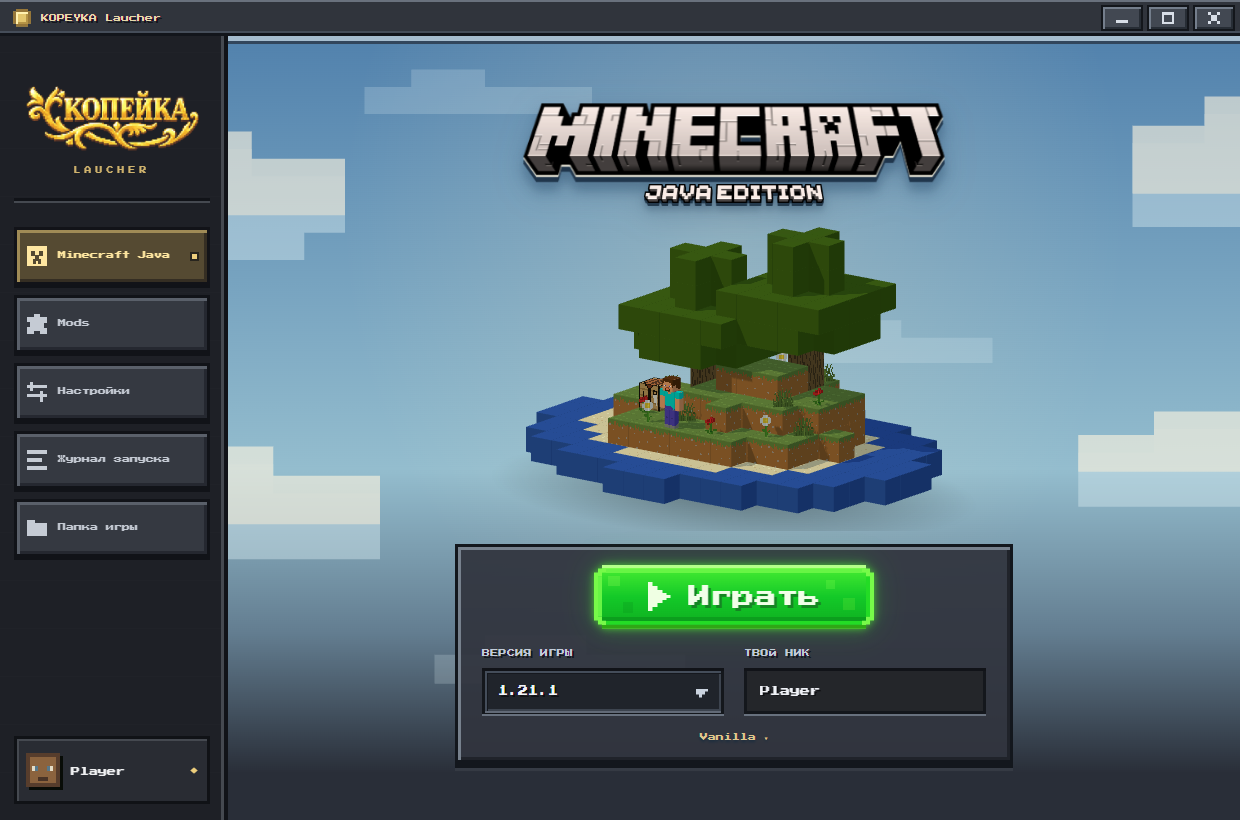
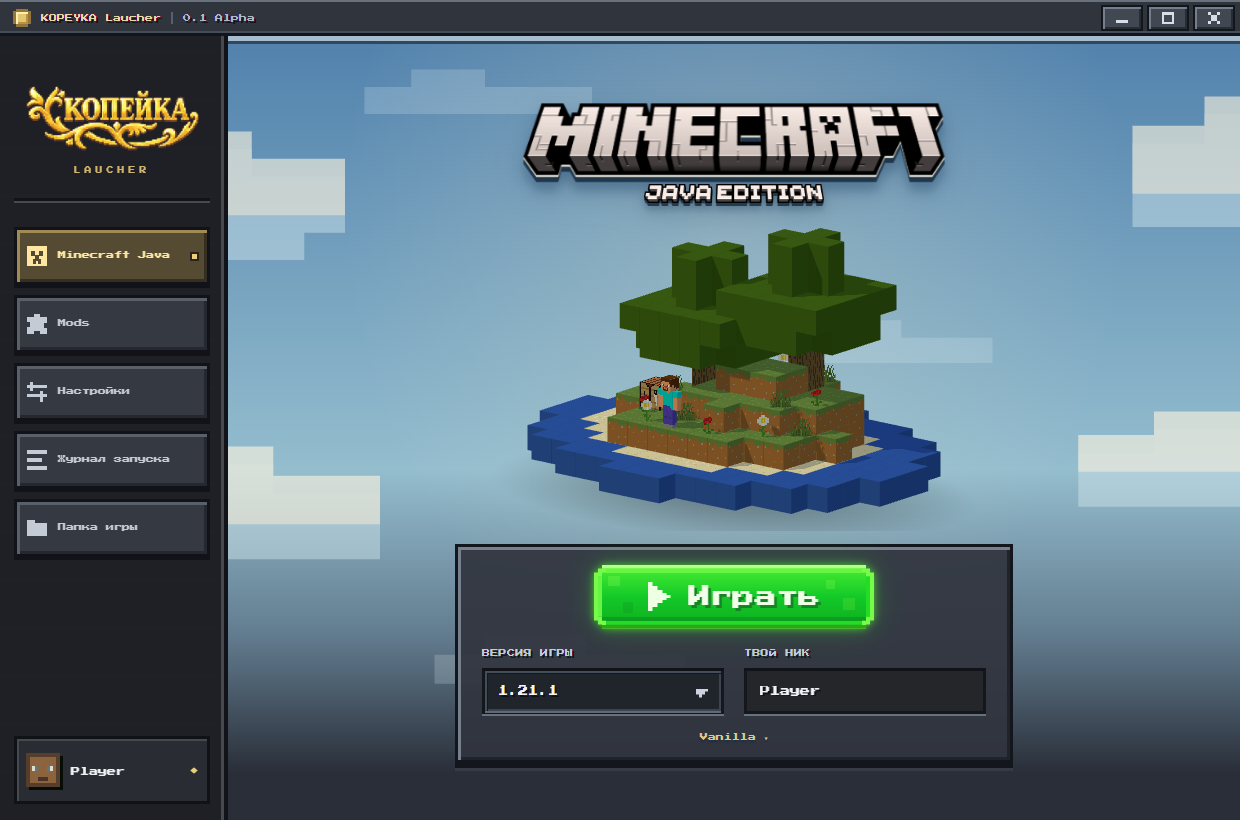
Label first public build as 0.1 Alpha

diff --git a/src/ui/titlebar.css b/src/ui/titlebar.css
@@ -2,6 +2,7 @@
 body { display: block; }
 .titlebar { position: sticky; top: 0; z-index: 100; height: var(--titlebar-height); padding: 0 5px 0 13px; background: #30343c; border-top: 2px solid #69717d; border-bottom: 3px solid #12151b; box-shadow: inset 0 -2px #454d59; user-select: none; -webkit-app-region: drag; }
 .window-title { display: flex; align-items: center; gap: 10px; color: #e7d9ac; font: 8px/1.5 PlayPixel, monospace; text-shadow: 2px 2px #14171d; pointer-events: none; }
+.title-version { color: #b0bac9; border-left: 2px solid #56606e; padding-left: 10px; }
 .title-coin { display: block; width: 18px; height: 18px; background: #e4c76e; border: 3px solid #967638; box-shadow: inset 2px 2px #fff1b0, inset -2px -2px #b59446, 2px 2px #15171c; clip-path: polygon(3px 0,15px 0,15px 3px,18px 3px,18px 15px,15px 15px,15px 18px,3px 18px,3px 15px,0 15px,0 3px,3px 3px); }
 .window-controls { display: flex; gap: 4px; -webkit-app-region: no-drag; }
 .window-button { display: grid; place-items: center; width: 42px; height: 26px; padding: 0; border: 2px solid #13161b; background: #424852; color: #d8dee7; box-shadow: inset 2px 2px #747e8c, inset -2px -2px #272d35; -webkit-app-region: no-drag; }

diff --git a/src/ui/index.html b/src/ui/index.html
@@ -16,7 +16,7 @@
 </head>
 <body>
   <header class="titlebar" aria-label="Панель окна">
-    <div class="window-title"><span class="title-coin" aria-hidden="true"></span><span>KOPEYKA Laucher</span></div>
+    <div class="window-title"><span class="title-coin" aria-hidden="true"></span><span>KOPEYKA Laucher</span><span class="title-version">0.1 Alpha</span></div>
     <div class="window-controls">
       <button id="window-minimize" class="window-button" aria-label="Свернуть" title="Свернуть"><span class="window-symbol minimize-symbol" aria-hidden="true"></span></button>
       <button id="window-maximize" class="window-button" aria-label="Развернуть" title="Развернуть"><span class="window-symbol maximize-symbol" aria-hidden="true"></span></button>

diff --git a/README.md b/README.md
@@ -4,7 +4,9 @@
 
 ## Скачать для Windows
 
-[Установщик 0.1.11](https://github.com/Arab228d/kopeyka-launcher/releases/download/v0.1.11/KOPEYKA-Laucher-Setup-0.1.11.exe) · [Переносимая версия 0.1.11](https://github.com/Arab228d/kopeyka-launcher/releases/download/v0.1.11/KOPEYKA-Laucher-0.1.11.exe) · [Все релизы](https://github.com/Arab228d/kopeyka-launcher/releases)
+[Установщик 0.1 Alpha](https://github.com/Arab228d/kopeyka-launcher/releases/download/v0.1.0-alpha/KOPEYKA-Laucher-Setup-0.1.0-alpha.exe) · [Переносимая версия 0.1 Alpha](https://github.com/Arab228d/kopeyka-launcher/releases/download/v0.1.0-alpha/KOPEYKA-Laucher-0.1.0-alpha.exe) · [Все релизы](https://github.com/Arab228d/kopeyka-launcher/releases)
+
+Текущая версия — **0.1 Alpha** (`0.1.0-alpha` в файлах сборки). Это предварительный релиз.
 
 Поддерживается Windows x64. Установщик создаёт ярлыки; переносимую версию можно запускать без установки. Java автоматически загружается при первом запуске игры.
 
